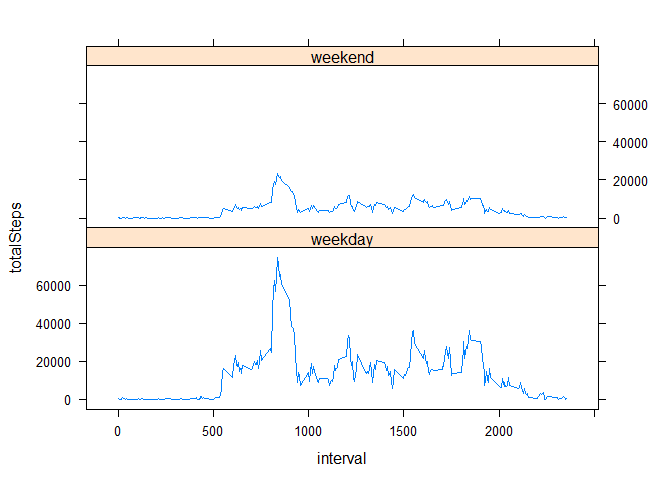
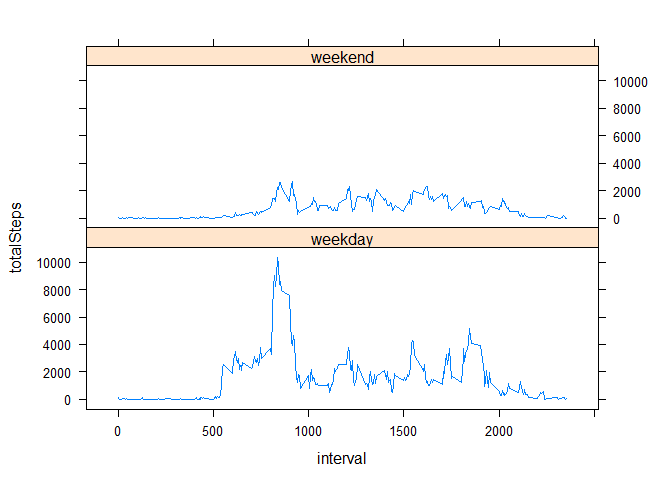
various changes

diff --git a/PA1_template.md b/PA1_template.md
@@ -6,7 +6,8 @@ Read the data file:
 
 ```r
 setwd("~/Rworkspace/Reproducible_Research/Peer_Assignment_1/RepData_PeerAssessment1")
-activityDataRaw <- read.csv(file = 'activity.csv')
+unzip(zipfile = 'activity.zip', overwrite = TRUE, exdir = 'tempUnzip')
+activityDataRaw <- read.csv(file = '~/Rworkspace/Reproducible_Research/Peer_Assignment_1/RepData_PeerAssessment1/tempUnzip/activity.csv')
 ## strip the NA values
 activityData <- na.omit(activityDataRaw)
 ```
@@ -37,7 +38,6 @@ meanTotalStepsPerDay
 ## [1] 10766.19
 ```
 
-
 The median # of total steps per day:
 
 ```r
@@ -50,15 +50,13 @@ medianTotalStepsPerDay
 ```
 
 
-
-
 ## What is the average daily activity pattern?
 Make a time series plot (i.e. type = "l") of the 5-minute interval (x-axis) and the average number of steps taken, averaged across all days (y-axis)
 
 ```r
 ## calculate average steps per interval
 meanStepsPerInterval <- dcast(data = activityData, formula = interval ~
-                        "meanSteps", fun.aggregate = sum, value.var="steps")
+                        "meanSteps", fun.aggregate = mean, value.var="steps")
 plot(x = meanStepsPerInterval$interval, y = meanStepsPerInterval$meanSteps, 
      type = 'l', xlab = 'Interval', ylab = 'average # of steps', main =
            'Average # of Steps Per Interval')
@@ -108,7 +106,7 @@ adjustedData <- activityDataRaw
 ## update NA values with meanStepsPerInterval
 for (i in seq_len(nrow(adjustedData))){
       if (is.na(adjustedData[i, 'steps'])){
-            adjustedData[i, 'steps'] <- meanStepsPerInterval[meanStepsPerInterval$interval == adjustedData[i, 'interval'],2]
+            adjustedData[i, 'steps'] <- meanStepsPerInterval[meanStepsPerInterval$interval == adjustedData[i, 'interval'], 'meanSteps']
       }
       
 }
@@ -121,35 +119,36 @@ Do these values differ from the estimates from the first part of the assignment?
 ```r
 library(reshape2)
 ## calculate total steps per day
-totalAdjStepsPerDay <- dcast(data = adjustedData, formula = date ~ ., 
+totalAdjStepsPerDay <- dcast(data = adjustedData, formula = date ~ "stepsSum", 
                           fun.aggregate = sum, value.var="steps")
-hist(totalAdjStepsPerDay[,2], xlab = "Total Steps per Day", 
+hist(totalAdjStepsPerDay$stepsSum, xlab = "Total Steps per Day", 
      main = "Frequecy of Total Adjusted Steps per Day")
 ```
 
 ![](PA1_template_files/figure-html/unnamed-chunk-9-1.png)<!-- -->
 
+
 The mean # of total adjusted steps per day:
 
 ```r
-meanTotalAdjStepsPerDay <- mean(totalAdjStepsPerDay[,2], na.rm = TRUE)
+meanTotalAdjStepsPerDay <- mean(totalAdjStepsPerDay$stepsSum, na.rm = TRUE)
 meanTotalAdjStepsPerDay
 ```
 
 ```
-## [1] 84188.07
+## [1] 10766.19
 ```
 
 
 The median # of total adjusted steps per day:
 
 ```r
-medianTotalAdjStepsPerDay <- median(totalAdjStepsPerDay[,2], na.rm = TRUE)
+medianTotalAdjStepsPerDay <- median(totalAdjStepsPerDay$stepsSum, na.rm = TRUE)
 medianTotalAdjStepsPerDay
 ```
 
 ```
-## [1] 11458
+## [1] 10766.19
 ```
 
 
